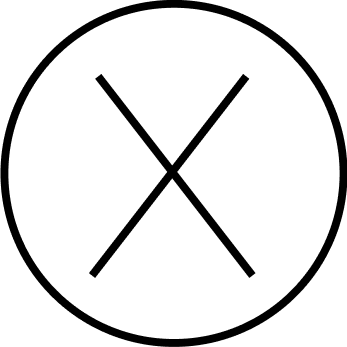
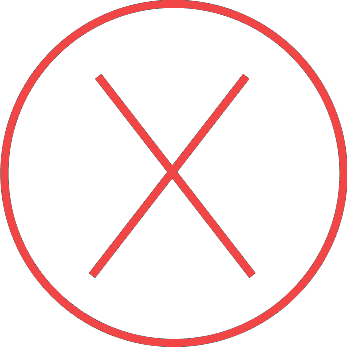
algo

Changed region(s): [[0.0, 0.0, 1.0, 1.0], [0.2594, 0.2017, 0.7493, 0.8069]]

diff --git a/MainMenu_PosFiltro.html b/MainMenu_PosFiltro.html
@@ -66,7 +66,7 @@
 
     <footer class="footer">
         <a href="MainMenu.html" rel=""><img class="botao-footer" src="img/person.png" alt="Busca"></a>
-        <a href="Casas.html" rel=""><img class="botao-footer" src="img/CasasChat.png" alt="Busca de Casas"></a>
+        <a href="Casas.html" rel=""><img class="botao-footer" src="img\casa1.png" alt="Busca de Casas"></a>
         <a href="Chat.html" rel=""><img class="botao-footer" src="img/Mensagens.png" alt="Conversas"></a>
         <a href="Configurações.html" rel=""><img class="botao-footer" src="img/ConfiguraçõesChat.png" alt="Configurações"></a>
     </footer>

diff --git a/Casas.html b/Casas.html
@@ -11,7 +11,7 @@
     <header class="title">
 
         <ul class="linha-header">
-            <li><h2><a href = "MainMenu.html" rel=""><img  class="imgfil" src="https://cdn1.iconfinder.com/data/icons/linecon/512/cross-256.png" alt="Filtro_Casas"></a></h2></li>
+            <li><h2><a href = "MainMenu.html" rel=""><img  class="imgfil" src="img\x.png" alt="Filtro_Casas"></a></h2></li>
             <li class="casa1">Roomates</li>
             <li><h2><a href = "Filtro_Casas.html" rel=""><img class="imgfil" src="img/filtro.png" alt="Filtro_Casas"></a></h2></li>
         </ul>
